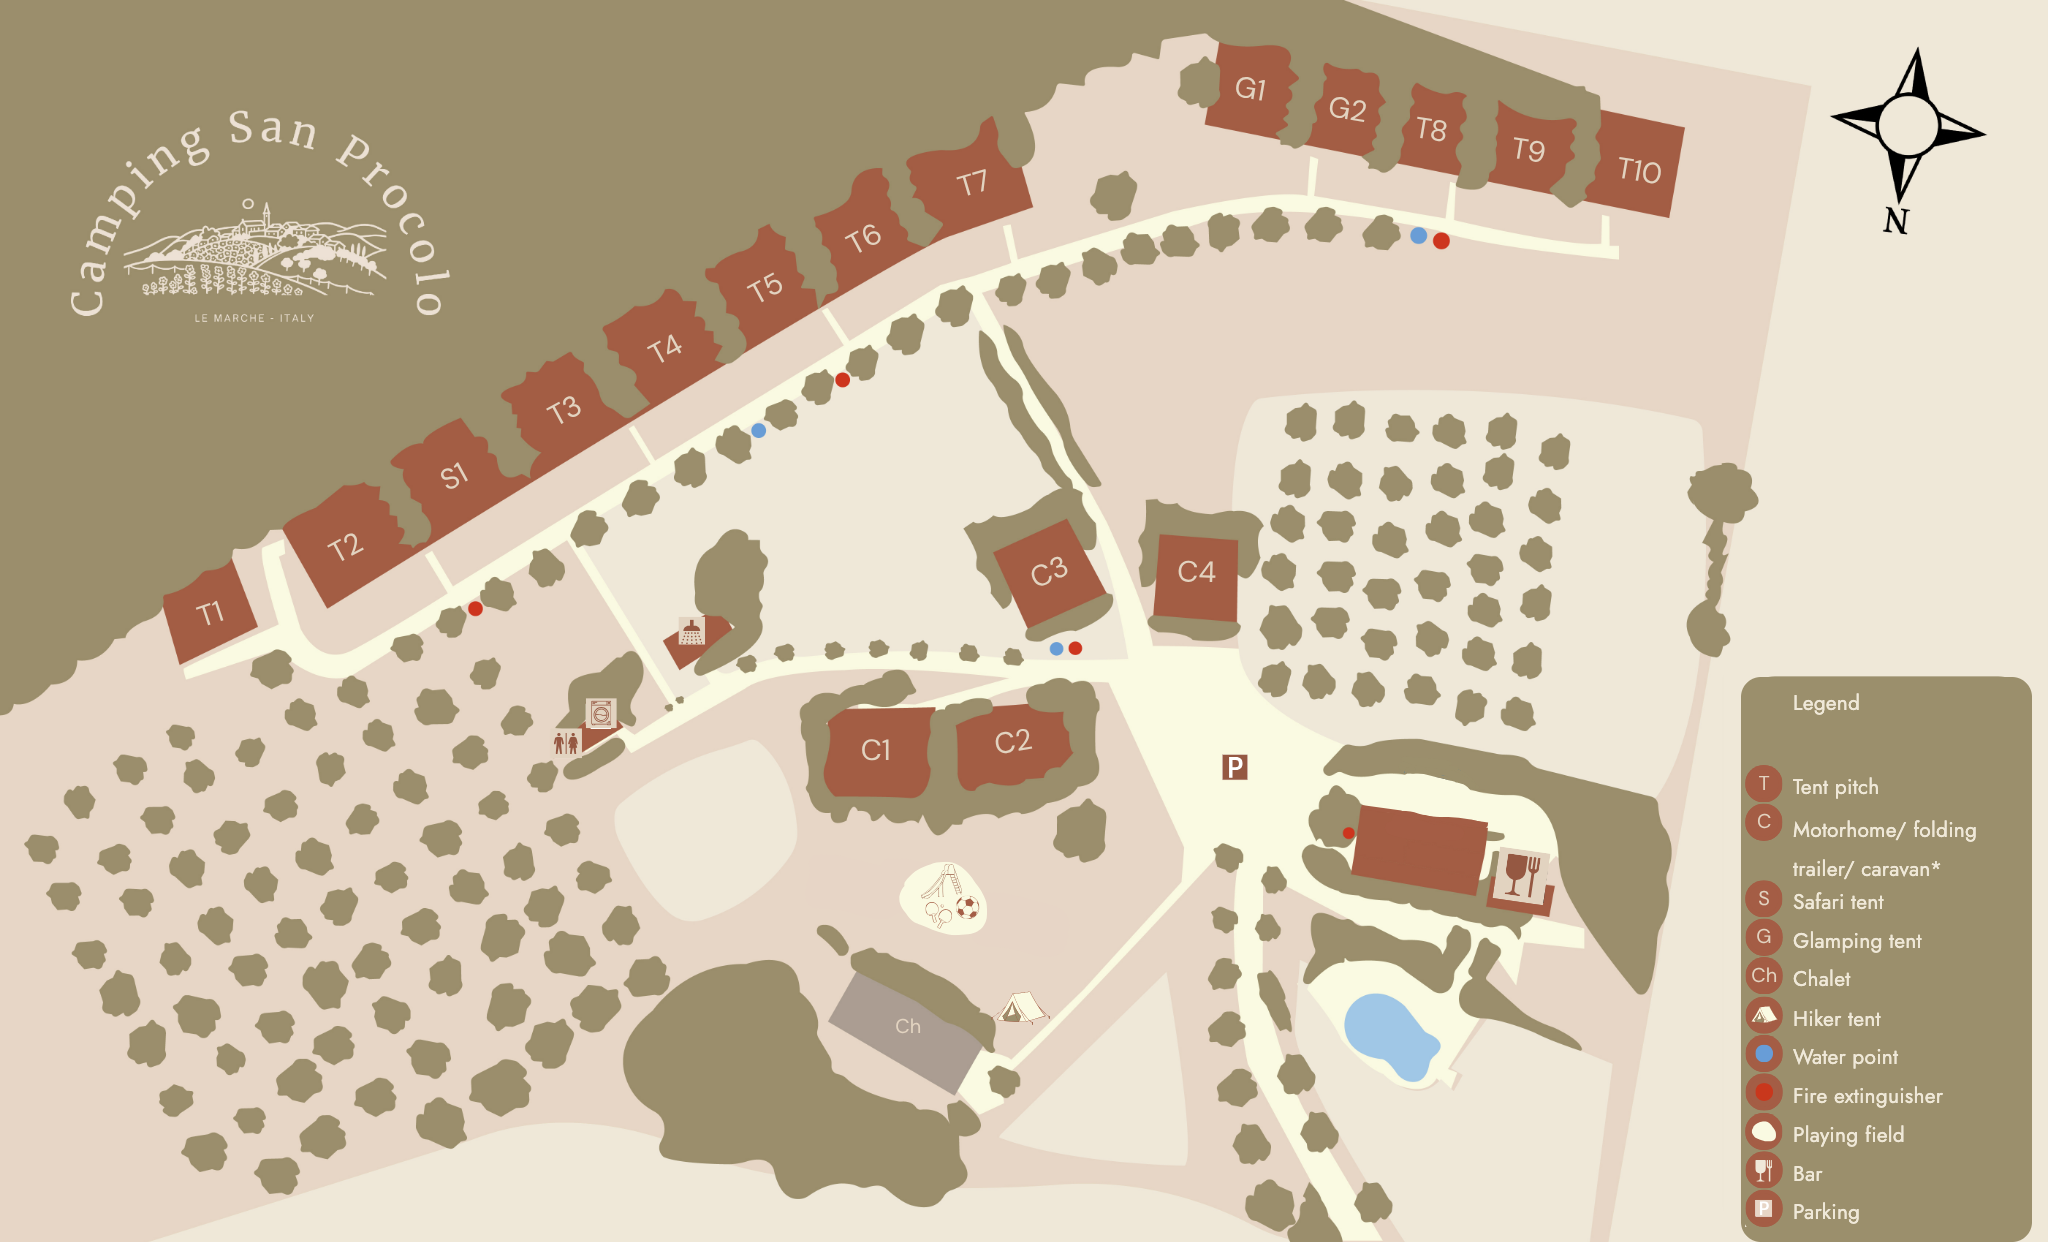
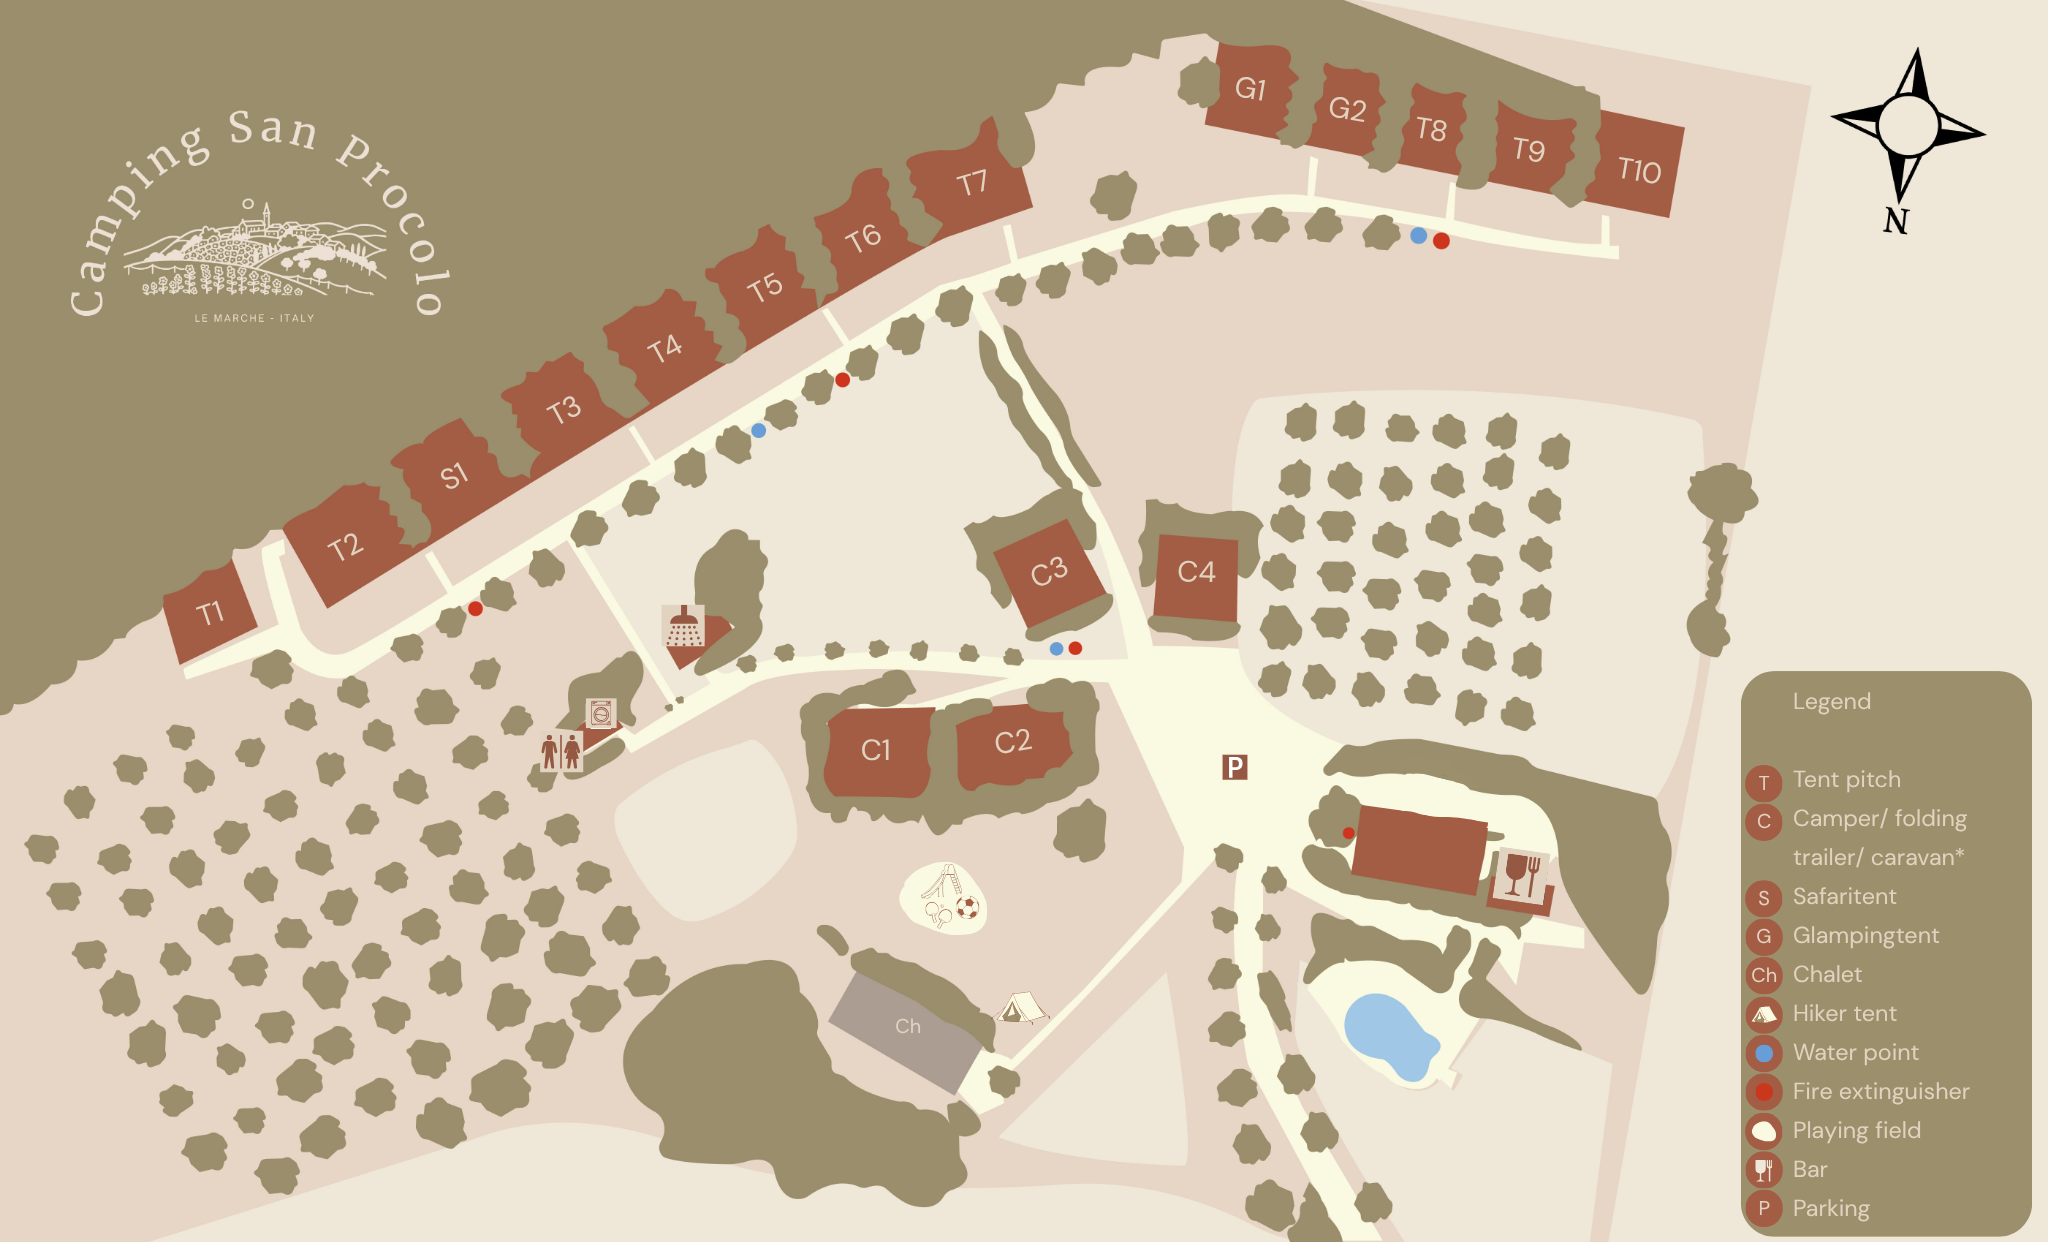
Add files via upload

diff --git a/index.html b/index.html
@@ -306,11 +306,14 @@ nav.scrolled .nav-hamburger span { background: var(--cream); }
 .hero-title em { font-style: normal; color: var(--gold); }
 
 .hero-sub {
-  margin-top: 28px;
-  font-size: 15px; font-weight: 400;
-  color: rgba(245,234,214,0.52); max-width: 400px; line-height: 1.85;
+  margin-top: 22px;
+  font-family: 'DM Sans', sans-serif;
+  font-size: clamp(14px, 1.5vw, 16px);
+  font-weight: 300; letter-spacing: 0;
+  color: oklch(94% 0.010 90 / 0.78);
+  max-width: 52ch; line-height: 1.65;
   opacity: 0; transform: translateY(20px);
-  animation: fadeUp 0.7s ease 0.5s forwards;
+  animation: fadeUp 0.7s ease 0.55s forwards;
 }
 
 .hero-cta {
@@ -470,7 +473,8 @@ nav.scrolled .nav-hamburger span { background: var(--cream); }
 
 .about {
   display: grid; grid-template-columns: 64% 36%;
-  gap: 72px; align-items: center;
+  gap: 72px; align-items: start;
+  grid-auto-flow: dense;
   max-width: 1280px; margin: 0 auto;
 }
 .about-content { grid-column: 1; }
@@ -484,8 +488,8 @@ nav.scrolled .nav-hamburger span { background: var(--cream); }
 .about-drawing { display: block; width: 100%; height: auto; }
 .about-drawing-cap {
   font-family: 'DM Serif Display', serif;
-  font-size: 1.35rem; font-weight: 400;
-  color: var(--cream); line-height: 1;
+  font-size: 1.2rem; font-weight: 400;
+  color: var(--gold); line-height: 1;
   margin-top: 8px;
 }
 
@@ -753,6 +757,7 @@ nav.scrolled .nav-hamburger span { background: var(--cream); }
   overflow: hidden;
   border: 1px solid var(--border2);
   transition: transform 0.4s ease, box-shadow 0.4s ease, border-color 0.3s ease;
+  display: flex; flex-direction: column;
 }
 
 .stay-card:hover {
@@ -787,7 +792,7 @@ nav.scrolled .nav-hamburger span { background: var(--cream); }
   padding: 5px 12px; border-radius: 2px;
 }
 
-.stay-card-body { padding: 28px; }
+.stay-card-body { padding: 28px; display: flex; flex-direction: column; flex: 1; }
 
 .stay-card-title {
   font-family: 'DM Serif Display', serif;
@@ -804,6 +809,7 @@ nav.scrolled .nav-hamburger span { background: var(--cream); }
   display: flex; align-items: center;
   justify-content: space-between;
   padding-top: 16px; border-top: 1px solid var(--border2);
+  margin-top: auto;
 }
 
 .stay-price { display: flex; flex-direction: column; gap: 1px; }
@@ -1437,7 +1443,7 @@ a:focus-visible, button:focus-visible {
 
 /* Hero: light text on dark overlay */
 .hero-title      { color: var(--light); }
-.hero-sub        { color: oklch(96% 0.008 90 / 0.82); }
+.hero-sub        { color: oklch(94% 0.010 90 / 0.78); }
 .hero-stat-value { color: var(--light); }
 .hero-urgency    { color: oklch(94% 0.010 90 / 0.55); }
 
@@ -2027,8 +2033,7 @@ footer .footer-links a:hover   { color: var(--peach); }
   <div class="hero-content">
     <h1 class="hero-title">San<br>Procolo<span class="visually-hidden" data-i18n="h1_seo"> Camping San Procolo, familiecamping en glamping in Le Marche, Italië</span></h1>
     <p class="hero-slogan">Il dolce far niente</p>
-    <p class="hero-tagline"><em data-i18n="hero_tagline">Een kleine familiecamping tussen de bergen en de zee</em></p>
-    <p class="hero-sub" data-i18n="hero_sub">Achttien plaatsen, waarvan een paar glamping-tenten, een zwembad met uitzicht over de vallei. Twintig minuten naar de Adriatische kust, een uur naar de besneeuwde toppen van de Sibillini.</p>
+    <p class="hero-sub" data-i18n="hero_sub">Een kleine familiecamping tussen de bergen en de zee. Achttien plaatsen, waarvan een paar glamping-tenten, een zwembad met uitzicht over de vallei. Twintig minuten naar de Adriatische kust, een uur naar de besneeuwde toppen van de Sibillini.</p>
     <div class="hero-cta">
       <a href="#availability" class="btn-primary" data-i18n="nav_book_stay">Boek je Verblijf</a>
       <a href="#about" class="btn-outline" data-i18n="hero_btn_story">Ons Verhaal</a>
@@ -2105,7 +2110,6 @@ footer .footer-links a:hover   { color: var(--peach); }
   <div class="about">
     <div class="about-image reveal">
       <img class="about-drawing" src="gezin.png" alt="David, Lisette en hun gezin" loading="lazy">
-      <div class="about-drawing-cap">David &amp; Lisette</div>
     </div>
     <div class="about-content">
       <div>
@@ -2896,8 +2900,9 @@ const TRANSLATIONS = {
     // Hero
     h1_seo:' Camping San Procolo, family glamping and camping in Le Marche, Italy',
     hero_tagline:'A small family campsite between the mountains and the sea',
+    // (merged into hero_sub — element removed from hero)
     hero_meaning:'the sweetness of doing nothing',
-    hero_sub:'Eighteen pitches, a few of them glamping tents, a pool with a view across the valley. Twenty minutes from the Adriatic, an hour from the snowy peaks of the Sibillini.',
+    hero_sub:'A small family campsite between the mountains and the sea. Eighteen pitches, a few of them glamping tents, a pool with a view across the valley. Twenty minutes from the Adriatic, an hour from the snowy peaks of the Sibillini.',
     hero_btn_story:'Read Our Story',
     hero_urgency:'Open 22 May to 2 October — July and August fill up early',
     stat_sea:'Above Sea Level', stat_beach:'To the Beach', stat_est:'Open Since',
@@ -3109,7 +3114,7 @@ const TRANSLATIONS = {
     h1_seo:' Camping San Procolo, familiecamping en glamping in Le Marche, Italië',
     hero_tagline:'Een kleine familiecamping tussen de bergen en de zee',
     hero_meaning:'de zoetheid van het niksdoen',
-    hero_sub:'Achttien plaatsen, waarvan een paar glamping-tenten, een zwembad met uitzicht over de vallei. Twintig minuten naar de Adriatische kust, een uur naar de besneeuwde toppen van de Sibillini.',
+    hero_sub:'Een kleine familiecamping tussen de bergen en de zee. Achttien plaatsen, waarvan een paar glamping-tenten, een zwembad met uitzicht over de vallei. Twintig minuten naar de Adriatische kust, een uur naar de besneeuwde toppen van de Sibillini.',
     hero_btn_story:'Ons Verhaal',
     hero_urgency:'Open 22 mei tot 2 oktober — Juli en augustus zijn snel vol',
     stat_sea:'Boven Zeeniveau', stat_beach:'Naar het Strand', stat_est:'Open sinds',

diff --git a/en/index.html b/en/index.html
@@ -306,11 +306,14 @@ nav.scrolled .nav-hamburger span { background: var(--cream); }
 .hero-title em { font-style: normal; color: var(--gold); }
 
 .hero-sub {
-  margin-top: 28px;
-  font-size: 15px; font-weight: 400;
-  color: rgba(245,234,214,0.52); max-width: 400px; line-height: 1.85;
+  margin-top: 22px;
+  font-family: 'DM Sans', sans-serif;
+  font-size: clamp(14px, 1.5vw, 16px);
+  font-weight: 300; letter-spacing: 0;
+  color: oklch(94% 0.010 90 / 0.78);
+  max-width: 52ch; line-height: 1.65;
   opacity: 0; transform: translateY(20px);
-  animation: fadeUp 0.7s ease 0.5s forwards;
+  animation: fadeUp 0.7s ease 0.55s forwards;
 }
 
 .hero-cta {
@@ -470,7 +473,8 @@ nav.scrolled .nav-hamburger span { background: var(--cream); }
 
 .about {
   display: grid; grid-template-columns: 64% 36%;
-  gap: 72px; align-items: center;
+  gap: 72px; align-items: start;
+  grid-auto-flow: dense;
   max-width: 1280px; margin: 0 auto;
 }
 .about-content { grid-column: 1; }
@@ -484,8 +488,8 @@ nav.scrolled .nav-hamburger span { background: var(--cream); }
 .about-drawing { display: block; width: 100%; height: auto; }
 .about-drawing-cap {
   font-family: 'DM Serif Display', serif;
-  font-size: 1.35rem; font-weight: 400;
-  color: var(--cream); line-height: 1;
+  font-size: 1.2rem; font-weight: 400;
+  color: var(--gold); line-height: 1;
   margin-top: 8px;
 }
 
@@ -753,6 +757,7 @@ nav.scrolled .nav-hamburger span { background: var(--cream); }
   overflow: hidden;
   border: 1px solid var(--border2);
   transition: transform 0.4s ease, box-shadow 0.4s ease, border-color 0.3s ease;
+  display: flex; flex-direction: column;
 }
 
 .stay-card:hover {
@@ -787,7 +792,7 @@ nav.scrolled .nav-hamburger span { background: var(--cream); }
   padding: 5px 12px; border-radius: 2px;
 }
 
-.stay-card-body { padding: 28px; }
+.stay-card-body { padding: 28px; display: flex; flex-direction: column; flex: 1; }
 
 .stay-card-title {
   font-family: 'DM Serif Display', serif;
@@ -804,6 +809,7 @@ nav.scrolled .nav-hamburger span { background: var(--cream); }
   display: flex; align-items: center;
   justify-content: space-between;
   padding-top: 16px; border-top: 1px solid var(--border2);
+  margin-top: auto;
 }
 
 .stay-price { display: flex; flex-direction: column; gap: 1px; }
@@ -1437,7 +1443,7 @@ a:focus-visible, button:focus-visible {
 
 /* Hero: light text on dark overlay */
 .hero-title      { color: var(--light); }
-.hero-sub        { color: oklch(96% 0.008 90 / 0.82); }
+.hero-sub        { color: oklch(94% 0.010 90 / 0.78); }
 .hero-stat-value { color: var(--light); }
 .hero-urgency    { color: oklch(94% 0.010 90 / 0.55); }
 
@@ -2027,8 +2033,7 @@ footer .footer-links a:hover   { color: var(--peach); }
   <div class="hero-content">
     <h1 class="hero-title">San<br>Procolo<span class="visually-hidden" data-i18n="h1_seo"> Camping San Procolo, family glamping and camping in Le Marche, Italy</span></h1>
     <p class="hero-slogan">Il dolce far niente</p>
-    <p class="hero-tagline"><em data-i18n="hero_tagline">A small family campsite between the mountains and the sea</em></p>
-    <p class="hero-sub" data-i18n="hero_sub">Eighteen pitches, a few of them glamping tents, a pool with a view across the valley. Twenty minutes from the Adriatic, an hour from the snowy peaks of the Sibillini.</p>
+    <p class="hero-sub" data-i18n="hero_sub">A small family campsite between the mountains and the sea. Eighteen pitches, a few of them glamping tents, a pool with a view across the valley. Twenty minutes from the Adriatic, an hour from the snowy peaks of the Sibillini.</p>
     <div class="hero-cta">
       <a href="#availability" class="btn-primary" data-i18n="nav_book_stay">Book Your Stay</a>
       <a href="#about" class="btn-outline" data-i18n="hero_btn_story">Read Our Story</a>
@@ -2105,7 +2110,6 @@ footer .footer-links a:hover   { color: var(--peach); }
   <div class="about">
     <div class="about-image reveal">
       <img class="about-drawing" src="../gezin.png" alt="David, Lisette en hun gezin" loading="lazy">
-      <div class="about-drawing-cap">David &amp; Lisette</div>
     </div>
     <div class="about-content">
       <div>
@@ -2896,8 +2900,9 @@ const TRANSLATIONS = {
     // Hero
     h1_seo:' Camping San Procolo, family glamping and camping in Le Marche, Italy',
     hero_tagline:'A small family campsite between the mountains and the sea',
+    // (merged into hero_sub — element removed from hero)
     hero_meaning:'the sweetness of doing nothing',
-    hero_sub:'Eighteen pitches, a few of them glamping tents, a pool with a view across the valley. Twenty minutes from the Adriatic, an hour from the snowy peaks of the Sibillini.',
+    hero_sub:'A small family campsite between the mountains and the sea. Eighteen pitches, a few of them glamping tents, a pool with a view across the valley. Twenty minutes from the Adriatic, an hour from the snowy peaks of the Sibillini.',
     hero_btn_story:'Read Our Story',
     hero_urgency:'Open 22 May to 2 October — July and August fill up early',
     stat_sea:'Above Sea Level', stat_beach:'To the Beach', stat_est:'Open Since',
@@ -3109,7 +3114,7 @@ const TRANSLATIONS = {
     h1_seo:' Camping San Procolo, familiecamping en glamping in Le Marche, Italië',
     hero_tagline:'Een kleine familiecamping tussen de bergen en de zee',
     hero_meaning:'de zoetheid van het niksdoen',
-    hero_sub:'Achttien plaatsen, waarvan een paar glamping-tenten, een zwembad met uitzicht over de vallei. Twintig minuten naar de Adriatische kust, een uur naar de besneeuwde toppen van de Sibillini.',
+    hero_sub:'Een kleine familiecamping tussen de bergen en de zee. Achttien plaatsen, waarvan een paar glamping-tenten, een zwembad met uitzicht over de vallei. Twintig minuten naar de Adriatische kust, een uur naar de besneeuwde toppen van de Sibillini.',
     hero_btn_story:'Ons Verhaal',
     hero_urgency:'Open 22 mei tot 2 oktober — Juli en augustus zijn snel vol',
     stat_sea:'Boven Zeeniveau', stat_beach:'Naar het Strand', stat_est:'Open sinds',
